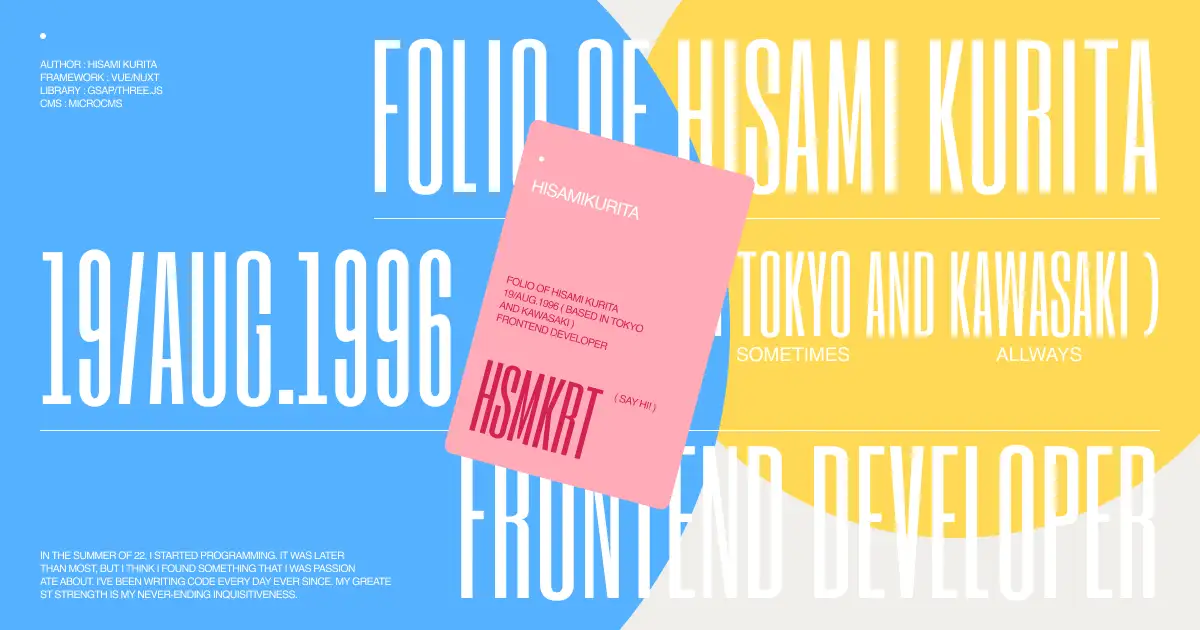
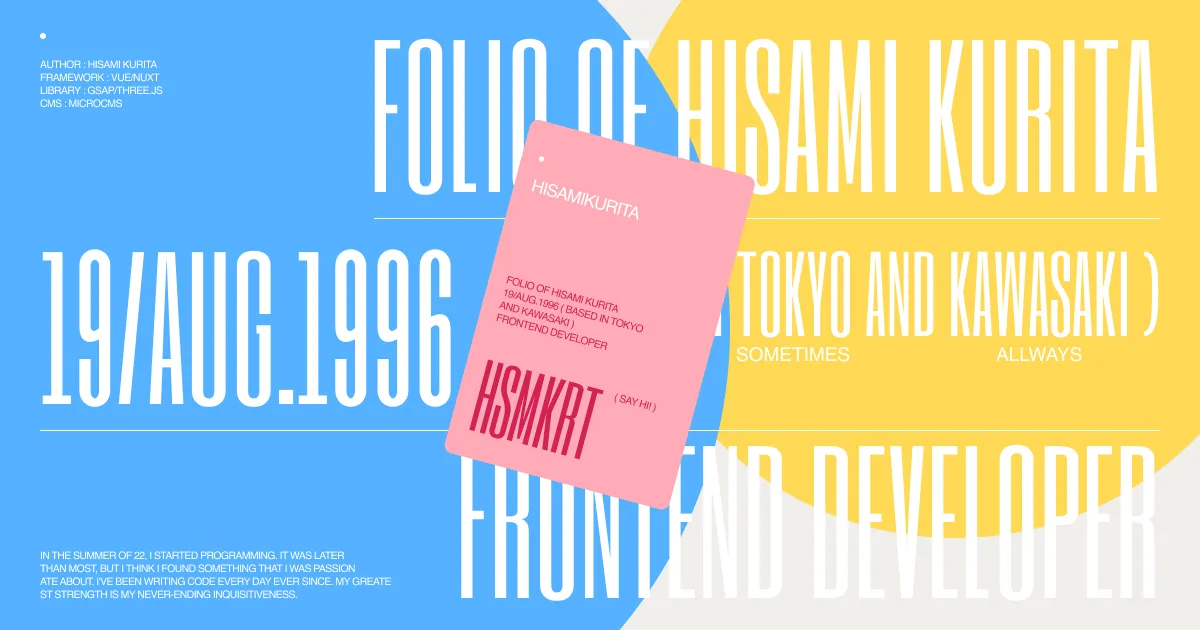
fix: works mainvisual img

diff --git a/layouts/default.vue b/layouts/default.vue
@@ -19,7 +19,7 @@
         >
           <picture>
             <source
-              :srcset="`${data.heroImg.pc.url}?fm=webp&w=2560&h=1600&q=50`"
+              :srcset="`${data.heroImg.pc.url}`"
               type="image/webp"
               media="(min-width: 767px)"
             />
@@ -380,15 +380,15 @@ export default {
     const imgPath = []
     imgPath.push(
       {
-        pc: `${this.pickupData[0].heroImg.pc.url}?fm=webp&w=2560&h=1600&q=50`,
+        pc: `${this.pickupData[0].heroImg.pc.url}`,
         sp: `${this.pickupData[0].heroImg.sp.url}?fm=webp&w=750&h=1106&q=50`,
       },
       {
-        pc: `${this.pickupData[1].heroImg.pc.url}?fm=webp&w=2560&h=1600&q=50`,
+        pc: `${this.pickupData[1].heroImg.pc.url}`,
         sp: `${this.pickupData[1].heroImg.sp.url}?fm=webp&w=750&h=1106&q=50`,
       },
       {
-        pc: `${this.pickupData[2].heroImg.pc.url}?fm=webp&w=2560&h=1600&q=50`,
+        pc: `${this.pickupData[2].heroImg.pc.url}`,
         sp: `${this.pickupData[2].heroImg.sp.url}?fm=webp&w=750&h=1106&q=50`,
       }
     )

diff --git a/components/works/MainVisualSection.vue b/components/works/MainVisualSection.vue
@@ -9,7 +9,7 @@
             media="(max-width: 767px)"
           />
           <img
-            :src="`${currentProject.heroImg.pc.url}?fm=webp&w=2560&h=1600&q=50`"
+            :src="`${currentProject.heroImg.pc.url}`"
             :width="`${currentProject.heroImg.pc.width}`"
             :height="`${currentProject.heroImg.pc.height}`"
             :alt="currentProject.id"
